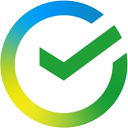
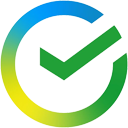
Курсы драгоценных металлов Сбербанка (ab-exchange-metal-sbrf): Роман Сотников - Добавлен выбор источника курсов в настройках (Курсы банков и СберБанк Онлайн, в последнем курсы выгоднее) - Улучшены иконки (убран белый фон)

diff --git a/providers/ab-exchange-metal-sbrf/main.js b/providers/ab-exchange-metal-sbrf/main.js
@@ -26,11 +26,21 @@ function main(){
   AnyBalance.setDefaultCharset('utf-8');
 
   var region = findRegion(prefs.region).TRBANK_CODE;
+  
+  if (/office/.test(prefs.type)) {
+        var segType = '&segType=TRADITIONAL';
+        var requestID = 'c169d176feee11568f0ed90b07e5cada';
+		var sourceType = 'Офисы банка';
+	} else {
+        var segType = '';
+        var requestID = '1e65ab9578777362383f525a74b7268f';
+		var sourceType = 'СберБанк Онлайн';
+    }	
 
-  var html = AnyBalance.requestGet('https://www.sberbank.ru/proxy/services/rates/public/actual?rateType=PMR-3&isoCodes[]=A98&isoCodes[]=A99&isoCodes[]=A76&isoCodes[]=A33&regionId=' + region + '&segType=TRADITIONAL',
+  var html = AnyBalance.requestGet('https://www.sberbank.ru/proxy/services/rates/public/actual?rateType=PMR-3&isoCodes[]=A98&isoCodes[]=A99&isoCodes[]=A76&isoCodes[]=A33&regionId=' + region + segType,
   	addHeaders({
   		'X-Requested-With': 'XMLHttpRequest',
-  		'X-Request-ID': 'c169d176feee11568f0ed90b07e5cada',
+  		'X-Request-ID': requestID,
   		Referer: 'https://www.sberbank.ru/ru/quotes/metalbeznal/'
   	}));
 
@@ -50,6 +60,8 @@ function main(){
         result[name + '_weight'] = metal.rateList[0].rateBuy * weight;
 	  if(AnyBalance.isAvailable('date'))
         sumParam(metal.startDateTime, result, 'date', null, null, null, aggregate_max);
+	  if(AnyBalance.isAvailable('source'))
+        getParam(sourceType, result, 'source');
 	  getParam(getFormattedDate(null, new Date(metal.startDateTime)), result, '__tariff');
   }
 
